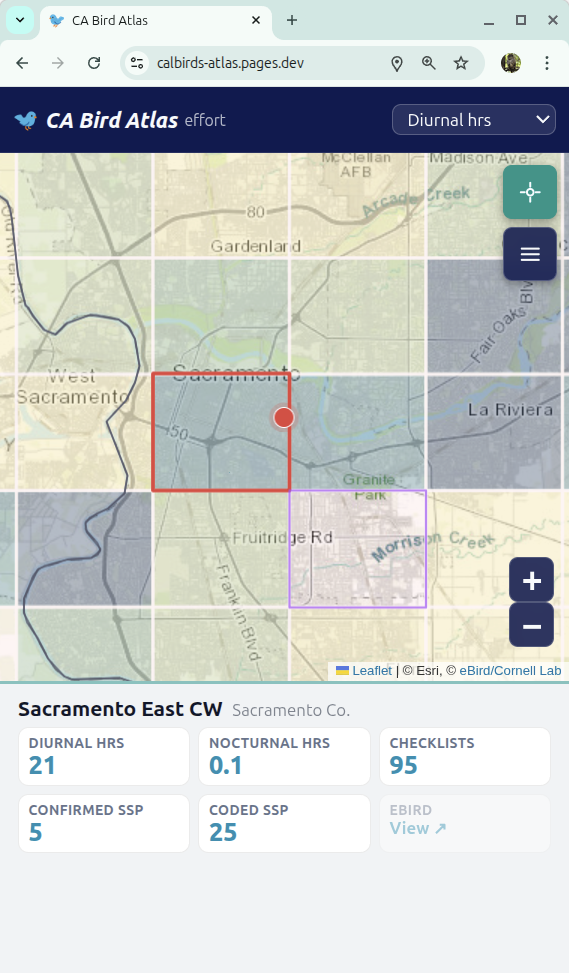
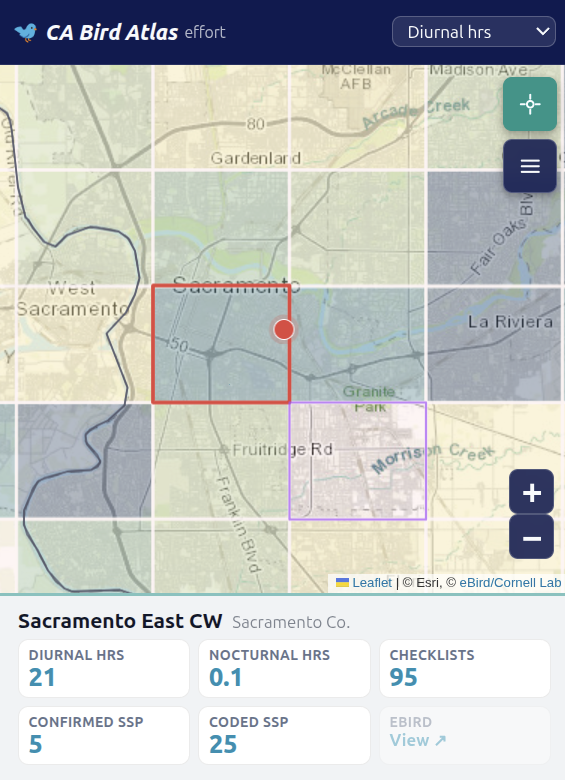
Rename card title to california-bird-atlas; refresh thumbnail

diff --git a/index.html b/index.html
@@ -304,7 +304,7 @@
         </div>
 
         <div class="project-card" data-type="mine">
-          <h3><a href="#" class="post-tab-link" data-tab="posts">calbirds-atlas</a></h3>
+          <h3><a href="#" class="post-tab-link" data-tab="posts">california-bird-atlas</a></h3>
           <p>Web-based app showing your location relative to the California Bird Atlas grid, with basic coverage statistics. Works in any mobile browser.</p>
           <img src="images/calbirds-atlas-thumbnail.png" alt="CA Bird Atlas app – map view" class="project-thumb" style="aspect-ratio: auto;" />
           <div class="project-tags">
